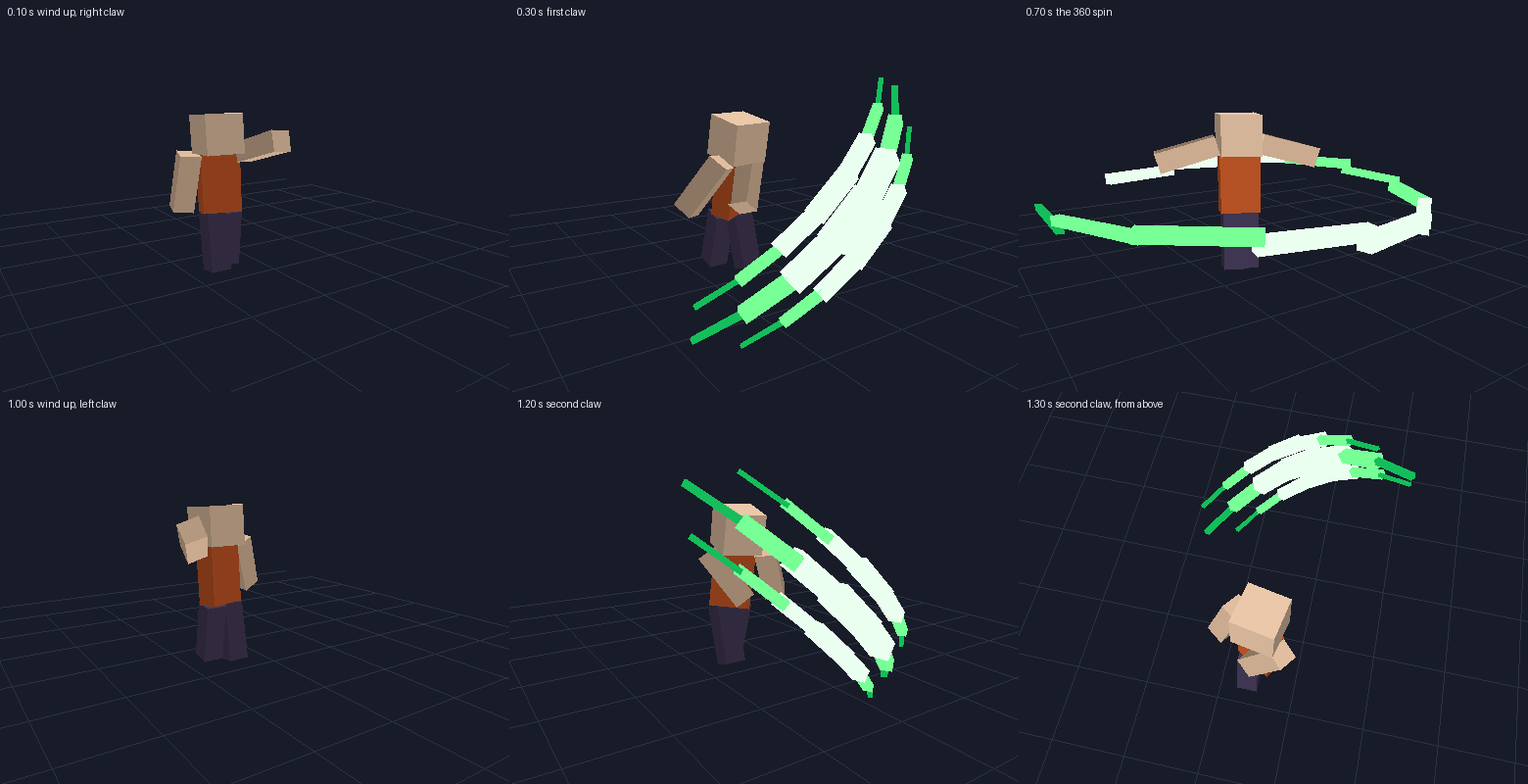
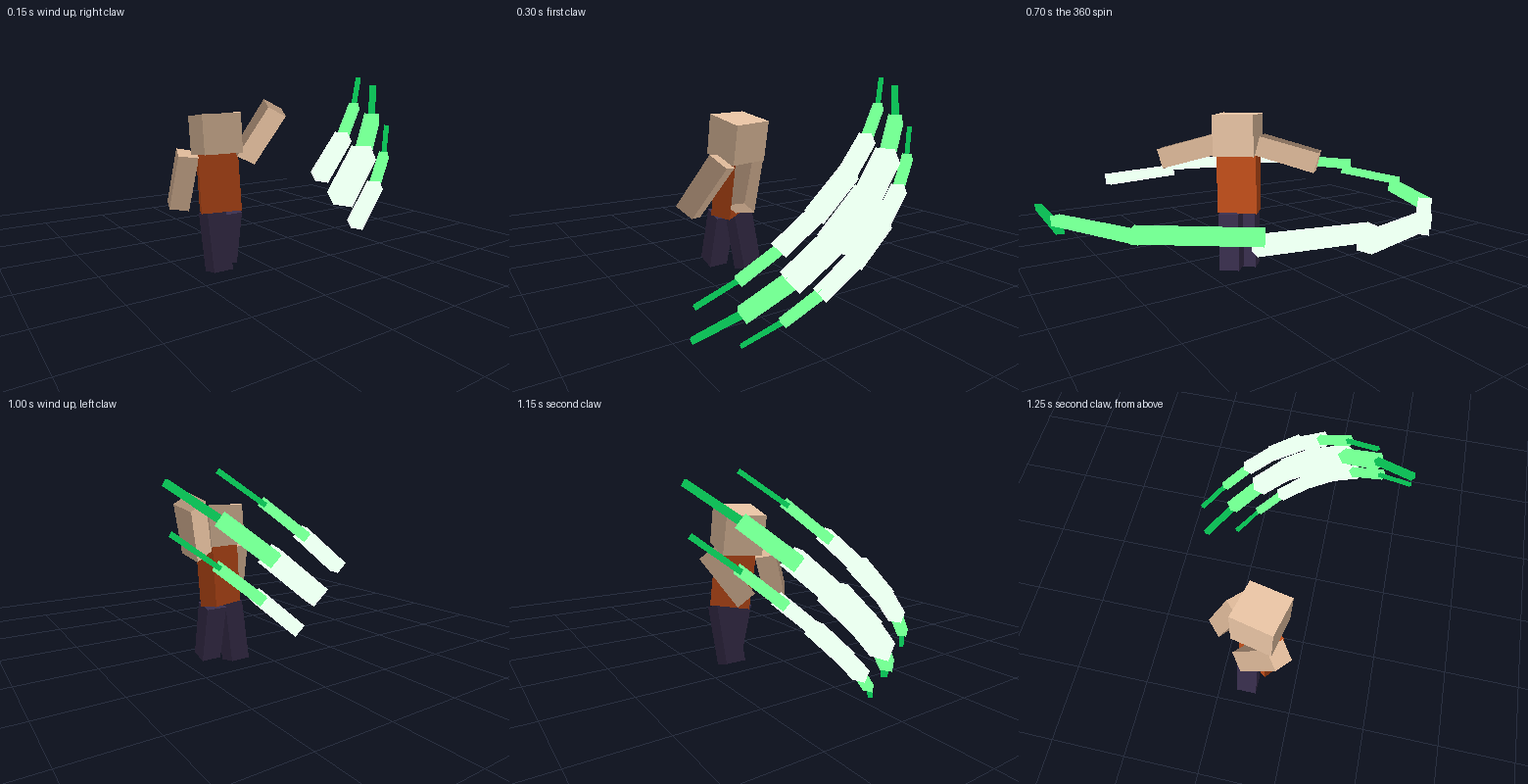
Dragon Claw: animation sent as 12 small calls (rotations only) after the game refused the large ones; the caster is told if a call fails

diff --git a/dragon_claw/animation/animation_only.code_block.js b/dragon_claw/animation/animation_only.code_block.js
@@ -1,10 +1,46 @@
 let playerId = myId
-api.animateEntity(playerId, {"animationDurationMs":450,"loop":false,"nodeAnimations":{"TorsoNode":{"timeline":[{"timeFraction":0,"position":[0,0,0],"rotation":[0,0,0]},{"timeFraction":0.333333,"position":[0,0,0],"rotation":[-0.1047,0.384,0]},{"timeFraction":0.6,"position":[0,0,0],"rotation":[0.2443,-0.4887,0]},{"timeFraction":0.888889,"position":[0,0,0],"rotation":[0.1745,-0.6632,0]},{"timeFraction":1,"position":[0,0,0],"rotation":[0,0,0]}]},"HeadMesh":{"timeline":[{"timeFraction":0,"position":[0,0,0],"rotation":[0,0,0]},{"timeFraction":0.333333,"position":[0,0,0],"rotation":[0,-0.2618,0]},{"timeFraction":0.6,"position":[0,0,0],"rotation":[0,0.3491,0]},{"timeFraction":0.888889,"position":[0,0,0],"rotation":[0,0.4363,0]},{"timeFraction":1,"position":[0,0,0],"rotation":[0,0,0]}]},"ArmRightMesh":{"timeline":[{"timeFraction":0,"position":[0,0,0],"rotation":[0,0,0]},{"timeFraction":0.333333,"position":[0,0,0],"rotation":[-2.7053,0,-0.5236]},{"timeFraction":0.6,"position":[0,0,0],"rotation":[-0.6981,0,0.8727]},{"timeFraction":0.888889,"position":[0,0,0],"rotation":[0.2618,0,0.6109]},{"timeFraction":1,"position":[0,0,0],"rotation":[0,0,-1.309]}]},"ArmLeftMesh":{"timeline":[{"timeFraction":0,"position":[0,0,0],"rotation":[0,0,0]},{"timeFraction":0.333333,"position":[0,0,0],"rotation":[0.3491,0,0.2094]},{"timeFraction":0.6,"position":[0,0,0],"rotation":[0.5236,0,0.2618]},{"timeFraction":0.888889,"position":[0,0,0],"rotation":[0.1745,0,0.3491]},{"timeFraction":1,"position":[0,0,0],"rotation":[0,0,1.309]}]},"LegLeftMesh":{"timeline":[{"timeFraction":0,"position":[0,0,0],"rotation":[0,0,0]},{"timeFraction":0.333333,"position":[0,0,0],"rotation":[-0.2094,0,0]},{"timeFraction":0.6,"position":[0,0,0],"rotation":[0.3142,0,0]},{"timeFraction":0.888889,"position":[0,0,0],"rotation":[0.3142,0,0]},{"timeFraction":1,"position":[0,0,0],"rotation":[0,0,0]}]},"LegRightMesh":{"timeline":[{"timeFraction":0,"position":[0,0,0],"rotation":[0,0,0]},{"timeFraction":0.333333,"position":[0,0,0],"rotation":[0.2094,0,0]},{"timeFraction":0.6,"position":[0,0,0],"rotation":[-0.3142,0,0]},{"timeFraction":0.888889,"position":[0,0,0],"rotation":[-0.3142,0,0]},{"timeFraction":1,"position":[0,0,0],"rotation":[0,0,0]}]}}}, 0, 1)
+api.animateEntity(playerId, {"animationDurationMs":150,"loop":false,"nodeAnimations":{"TorsoNode":{"timeline":[{"timeFraction":0,"rotation":[0,0,0]},{"timeFraction":1,"rotation":[-0.1,0.38,0]}]},"HeadMesh":{"timeline":[{"timeFraction":0,"rotation":[0,0,0]},{"timeFraction":1,"rotation":[0,-0.26,0]}]},"ArmRightMesh":{"timeline":[{"timeFraction":0,"rotation":[0,0,0]},{"timeFraction":1,"rotation":[-2.71,0,-0.52]}]},"ArmLeftMesh":{"timeline":[{"timeFraction":0,"rotation":[0,0,0]},{"timeFraction":1,"rotation":[0.35,0,0.21]}]},"LegLeftMesh":{"timeline":[{"timeFraction":0,"rotation":[0,0,0]},{"timeFraction":1,"rotation":[-0.21,0,0]}]},"LegRightMesh":{"timeline":[{"timeFraction":0,"rotation":[0,0,0]},{"timeFraction":1,"rotation":[0.21,0,0]}]}}}, 0, 1)
 
 addAnimation((speed) => {
-    api.animateEntity(playerId, {"animationDurationMs":450,"loop":false,"nodeAnimations":{"TorsoNode":{"timeline":[{"timeFraction":0,"position":[0,0,0],"rotation":[0,0,0]},{"timeFraction":0.25,"position":[0,0,0],"rotation":[0,1.5708,0]},{"timeFraction":0.5,"position":[0,0,0],"rotation":[0,3.1416,0]},{"timeFraction":0.75,"position":[0,0,0],"rotation":[0,4.7124,0]},{"timeFraction":1,"position":[0,0,0],"rotation":[0,6.2832,0]}]},"ArmRightMesh":{"timeline":[{"timeFraction":0,"position":[0,0,0],"rotation":[0,0,-1.309]},{"timeFraction":0.25,"position":[0,0,0],"rotation":[0,0,-1.309]},{"timeFraction":0.5,"position":[0,0,0],"rotation":[0,0,-1.309]},{"timeFraction":0.75,"position":[0,0,0],"rotation":[0,0,-1.309]},{"timeFraction":1,"position":[0,0,0],"rotation":[0,0,-1.309]}]},"ArmLeftMesh":{"timeline":[{"timeFraction":0,"position":[0,0,0],"rotation":[0,0,1.309]},{"timeFraction":0.25,"position":[0,0,0],"rotation":[0,0,1.309]},{"timeFraction":0.5,"position":[0,0,0],"rotation":[0,0,1.309]},{"timeFraction":0.75,"position":[0,0,0],"rotation":[0,0,1.309]},{"timeFraction":1,"position":[0,0,0],"rotation":[0,0,1.309]}]},"LegLeftMesh":{"timeline":[{"timeFraction":0,"position":[0,0,0],"rotation":[0,0,0]},{"timeFraction":0.25,"position":[-0.129,0,-0.129],"rotation":[0,1.5708,0]},{"timeFraction":0.5,"position":[-0.258,0,0],"rotation":[0,3.1416,0]},{"timeFraction":0.75,"position":[-0.129,0,0.129],"rotation":[0,4.7124,0]},{"timeFraction":1,"position":[0,0,0],"rotation":[0,6.2832,0]}]},"LegRightMesh":{"timeline":[{"timeFraction":0,"position":[0,0,0],"rotation":[0,0,0]},{"timeFraction":0.25,"position":[0.129,0,0.129],"rotation":[0,1.5708,0]},{"timeFraction":0.5,"position":[0.258,0,0],"rotation":[0,3.1416,0]},{"timeFraction":0.75,"position":[0.129,0,-0.129],"rotation":[0,4.7124,0]},{"timeFraction":1,"position":[0,0,0],"rotation":[0,6.2832,0]}]}}}, 0, speed)
+    api.animateEntity(playerId, {"animationDurationMs":100,"loop":false,"nodeAnimations":{"TorsoNode":{"timeline":[{"timeFraction":0,"rotation":[-0.1,0.38,0]},{"timeFraction":1,"rotation":[0.24,-0.49,0]}]},"HeadMesh":{"timeline":[{"timeFraction":0,"rotation":[0,-0.26,0]},{"timeFraction":1,"rotation":[0,0.35,0]}]},"ArmRightMesh":{"timeline":[{"timeFraction":0,"rotation":[-2.71,0,-0.52]},{"timeFraction":1,"rotation":[-0.7,0,0.87]}]},"ArmLeftMesh":{"timeline":[{"timeFraction":0,"rotation":[0.35,0,0.21]},{"timeFraction":1,"rotation":[0.52,0,0.26]}]},"LegLeftMesh":{"timeline":[{"timeFraction":0,"rotation":[-0.21,0,0]},{"timeFraction":1,"rotation":[0.31,0,0]}]},"LegRightMesh":{"timeline":[{"timeFraction":0,"rotation":[0.21,0,0]},{"timeFraction":1,"rotation":[-0.31,0,0]}]}}}, 0, speed)
+}, 150, 1)
+
+addAnimation((speed) => {
+    api.animateEntity(playerId, {"animationDurationMs":150,"loop":false,"nodeAnimations":{"TorsoNode":{"timeline":[{"timeFraction":0,"rotation":[0.24,-0.49,0]},{"timeFraction":1,"rotation":[0.17,-0.66,0]}]},"HeadMesh":{"timeline":[{"timeFraction":0,"rotation":[0,0.35,0]},{"timeFraction":1,"rotation":[0,0.44,0]}]},"ArmRightMesh":{"timeline":[{"timeFraction":0,"rotation":[-0.7,0,0.87]},{"timeFraction":1,"rotation":[0.26,0,0.61]}]},"ArmLeftMesh":{"timeline":[{"timeFraction":0,"rotation":[0.52,0,0.26]},{"timeFraction":1,"rotation":[0.17,0,0.35]}]},"LegLeftMesh":{"timeline":[{"timeFraction":0,"rotation":[0.31,0,0]},{"timeFraction":1,"rotation":[0.31,0,0]}]},"LegRightMesh":{"timeline":[{"timeFraction":0,"rotation":[-0.31,0,0]},{"timeFraction":1,"rotation":[-0.31,0,0]}]}}}, 0, speed)
+}, 250, 1)
+
+addAnimation((speed) => {
+    api.animateEntity(playerId, {"animationDurationMs":50,"loop":false,"nodeAnimations":{"TorsoNode":{"timeline":[{"timeFraction":0,"rotation":[0.17,-0.66,0]},{"timeFraction":1,"rotation":[0,0,0]}]},"HeadMesh":{"timeline":[{"timeFraction":0,"rotation":[0,0.44,0]},{"timeFraction":1,"rotation":[0,0,0]}]},"ArmRightMesh":{"timeline":[{"timeFraction":0,"rotation":[0.26,0,0.61]},{"timeFraction":1,"rotation":[0,0,-1.31]}]},"ArmLeftMesh":{"timeline":[{"timeFraction":0,"rotation":[0.17,0,0.35]},{"timeFraction":1,"rotation":[0,0,1.31]}]},"LegLeftMesh":{"timeline":[{"timeFraction":0,"rotation":[0.31,0,0]},{"timeFraction":1,"rotation":[0,0,0]}]},"LegRightMesh":{"timeline":[{"timeFraction":0,"rotation":[-0.31,0,0]},{"timeFraction":1,"rotation":[0,0,0]}]}}}, 0, speed)
+}, 400, 1)
+
+addAnimation((speed) => {
+    api.animateEntity(playerId, {"animationDurationMs":100,"loop":false,"nodeAnimations":{"TorsoNode":{"timeline":[{"timeFraction":0,"rotation":[0,0,0]},{"timeFraction":1,"rotation":[0,1.57,0]}]},"ArmRightMesh":{"timeline":[{"timeFraction":0,"rotation":[0,0,-1.31]},{"timeFraction":1,"rotation":[0,0,-1.31]}]},"ArmLeftMesh":{"timeline":[{"timeFraction":0,"rotation":[0,0,1.31]},{"timeFraction":1,"rotation":[0,0,1.31]}]},"LegLeftMesh":{"timeline":[{"timeFraction":0,"rotation":[0,0,0]},{"timeFraction":1,"rotation":[0,1.57,0]}]},"LegRightMesh":{"timeline":[{"timeFraction":0,"rotation":[0,0,0]},{"timeFraction":1,"rotation":[0,1.57,0]}]}}}, 0, speed)
 }, 450, 1)
 
 addAnimation((speed) => {
-    api.animateEntity(playerId, {"animationDurationMs":500,"loop":false,"nodeAnimations":{"TorsoNode":{"timeline":[{"timeFraction":0,"position":[0,0,0],"rotation":[0,0,0]},{"timeFraction":0.26,"position":[0,0,0],"rotation":[-0.1047,-0.384,0]},{"timeFraction":0.5,"position":[0,0,0],"rotation":[0.2443,0.4887,0]},{"timeFraction":0.76,"position":[0,0,0],"rotation":[0.1745,0.6632,0]},{"timeFraction":1,"position":[0,0,0],"rotation":[0,0,0]}]},"HeadMesh":{"timeline":[{"timeFraction":0,"position":[0,0,0],"rotation":[0,0,0]},{"timeFraction":0.26,"position":[0,0,0],"rotation":[0,0.2618,0]},{"timeFraction":0.5,"position":[0,0,0],"rotation":[0,-0.3491,0]},{"timeFraction":0.76,"position":[0,0,0],"rotation":[0,-0.4363,0]},{"timeFraction":1,"position":[0,0,0],"rotation":[0,0,0]}]},"ArmRightMesh":{"timeline":[{"timeFraction":0,"position":[0,0,0],"rotation":[0,0,-1.309]},{"timeFraction":0.26,"position":[0,0,0],"rotation":[0.3491,0,-0.2094]},{"timeFraction":0.5,"position":[0,0,0],"rotation":[0.5236,0,-0.2618]},{"timeFraction":0.76,"position":[0,0,0],"rotation":[0.1745,0,-0.3491]},{"timeFraction":1,"position":[0,0,0],"rotation":[0,0,0]}]},"ArmLeftMesh":{"timeline":[{"timeFraction":0,"position":[0,0,0],"rotation":[0,0,1.309]},{"timeFraction":0.26,"position":[0,0,0],"rotation":[-2.7053,0,0.5236]},{"timeFraction":0.5,"position":[0,0,0],"rotation":[-0.6981,0,-0.8727]},{"timeFraction":0.76,"position":[0,0,0],"rotation":[0.2618,0,-0.6109]},{"timeFraction":1,"position":[0,0,0],"rotation":[0,0,0]}]},"LegLeftMesh":{"timeline":[{"timeFraction":0,"position":[0,0,0],"rotation":[0,0,0]},{"timeFraction":0.26,"position":[0,0,0],"rotation":[0.2094,0,0]},{"timeFraction":0.5,"position":[0,0,0],"rotation":[-0.3142,0,0]},{"timeFraction":0.76,"position":[0,0,0],"rotation":[-0.3142,0,0]},{"timeFraction":1,"position":[0,0,0],"rotation":[0,0,0]}]},"LegRightMesh":{"timeline":[{"timeFraction":0,"position":[0,0,0],"rotation":[0,0,0]},{"timeFraction":0.26,"position":[0,0,0],"rotation":[-0.2094,0,0]},{"timeFraction":0.5,"position":[0,0,0],"rotation":[0.3142,0,0]},{"timeFraction":0.76,"position":[0,0,0],"rotation":[0.3142,0,0]},{"timeFraction":1,"position":[0,0,0],"rotation":[0,0,0]}]}}}, 0, speed)
-}, 900, 1)
+    api.animateEntity(playerId, {"animationDurationMs":100,"loop":false,"nodeAnimations":{"TorsoNode":{"timeline":[{"timeFraction":0,"rotation":[0,1.57,0]},{"timeFraction":1,"rotation":[0,3.14,0]}]},"ArmRightMesh":{"timeline":[{"timeFraction":0,"rotation":[0,0,-1.31]},{"timeFraction":1,"rotation":[0,0,-1.31]}]},"ArmLeftMesh":{"timeline":[{"timeFraction":0,"rotation":[0,0,1.31]},{"timeFraction":1,"rotation":[0,0,1.31]}]},"LegLeftMesh":{"timeline":[{"timeFraction":0,"rotation":[0,1.57,0]},{"timeFraction":1,"rotation":[0,3.14,0]}]},"LegRightMesh":{"timeline":[{"timeFraction":0,"rotation":[0,1.57,0]},{"timeFraction":1,"rotation":[0,3.14,0]}]}}}, 0, speed)
+}, 550, 1)
+
+addAnimation((speed) => {
+    api.animateEntity(playerId, {"animationDurationMs":100,"loop":false,"nodeAnimations":{"TorsoNode":{"timeline":[{"timeFraction":0,"rotation":[0,-3.14,0]},{"timeFraction":1,"rotation":[0,-1.57,0]}]},"ArmRightMesh":{"timeline":[{"timeFraction":0,"rotation":[0,0,-1.31]},{"timeFraction":1,"rotation":[0,0,-1.31]}]},"ArmLeftMesh":{"timeline":[{"timeFraction":0,"rotation":[0,0,1.31]},{"timeFraction":1,"rotation":[0,0,1.31]}]},"LegLeftMesh":{"timeline":[{"timeFraction":0,"rotation":[0,-3.14,0]},{"timeFraction":1,"rotation":[0,-1.57,0]}]},"LegRightMesh":{"timeline":[{"timeFraction":0,"rotation":[0,-3.14,0]},{"timeFraction":1,"rotation":[0,-1.57,0]}]}}}, 0, speed)
+}, 650, 1)
+
+addAnimation((speed) => {
+    api.animateEntity(playerId, {"animationDurationMs":100,"loop":false,"nodeAnimations":{"TorsoNode":{"timeline":[{"timeFraction":0,"rotation":[0,-1.57,0]},{"timeFraction":1,"rotation":[0,0,0]}]},"ArmRightMesh":{"timeline":[{"timeFraction":0,"rotation":[0,0,-1.31]},{"timeFraction":1,"rotation":[0,0,-1.31]}]},"ArmLeftMesh":{"timeline":[{"timeFraction":0,"rotation":[0,0,1.31]},{"timeFraction":1,"rotation":[0,0,1.31]}]},"LegLeftMesh":{"timeline":[{"timeFraction":0,"rotation":[0,-1.57,0]},{"timeFraction":1,"rotation":[0,0,0]}]},"LegRightMesh":{"timeline":[{"timeFraction":0,"rotation":[0,-1.57,0]},{"timeFraction":1,"rotation":[0,0,0]}]}}}, 0, speed)
+}, 750, 1)
+
+addAnimation((speed) => {
+    api.animateEntity(playerId, {"animationDurationMs":150,"loop":false,"nodeAnimations":{"TorsoNode":{"timeline":[{"timeFraction":0,"rotation":[0,0,0]},{"timeFraction":1,"rotation":[-0.1,-0.38,0]}]},"HeadMesh":{"timeline":[{"timeFraction":0,"rotation":[0,0,0]},{"timeFraction":1,"rotation":[0,0.26,0]}]},"ArmRightMesh":{"timeline":[{"timeFraction":0,"rotation":[0,0,-1.31]},{"timeFraction":1,"rotation":[0.35,0,-0.21]}]},"ArmLeftMesh":{"timeline":[{"timeFraction":0,"rotation":[0,0,1.31]},{"timeFraction":1,"rotation":[-2.71,0,0.52]}]},"LegLeftMesh":{"timeline":[{"timeFraction":0,"rotation":[0,0,0]},{"timeFraction":1,"rotation":[0.21,0,0]}]},"LegRightMesh":{"timeline":[{"timeFraction":0,"rotation":[0,0,0]},{"timeFraction":1,"rotation":[-0.21,0,0]}]}}}, 0, speed)
+}, 850, 1)
+
+addAnimation((speed) => {
+    api.animateEntity(playerId, {"animationDurationMs":100,"loop":false,"nodeAnimations":{"TorsoNode":{"timeline":[{"timeFraction":0,"rotation":[-0.1,-0.38,0]},{"timeFraction":1,"rotation":[0.24,0.49,0]}]},"HeadMesh":{"timeline":[{"timeFraction":0,"rotation":[0,0.26,0]},{"timeFraction":1,"rotation":[0,-0.35,0]}]},"ArmRightMesh":{"timeline":[{"timeFraction":0,"rotation":[0.35,0,-0.21]},{"timeFraction":1,"rotation":[0.52,0,-0.26]}]},"ArmLeftMesh":{"timeline":[{"timeFraction":0,"rotation":[-2.71,0,0.52]},{"timeFraction":1,"rotation":[-0.7,0,-0.87]}]},"LegLeftMesh":{"timeline":[{"timeFraction":0,"rotation":[0.21,0,0]},{"timeFraction":1,"rotation":[-0.31,0,0]}]},"LegRightMesh":{"timeline":[{"timeFraction":0,"rotation":[-0.21,0,0]},{"timeFraction":1,"rotation":[0.31,0,0]}]}}}, 0, speed)
+}, 1000, 1)
+
+addAnimation((speed) => {
+    api.animateEntity(playerId, {"animationDurationMs":150,"loop":false,"nodeAnimations":{"TorsoNode":{"timeline":[{"timeFraction":0,"rotation":[0.24,0.49,0]},{"timeFraction":1,"rotation":[0.17,0.66,0]}]},"HeadMesh":{"timeline":[{"timeFraction":0,"rotation":[0,-0.35,0]},{"timeFraction":1,"rotation":[0,-0.44,0]}]},"ArmRightMesh":{"timeline":[{"timeFraction":0,"rotation":[0.52,0,-0.26]},{"timeFraction":1,"rotation":[0.17,0,-0.35]}]},"ArmLeftMesh":{"timeline":[{"timeFraction":0,"rotation":[-0.7,0,-0.87]},{"timeFraction":1,"rotation":[0.26,0,-0.61]}]},"LegLeftMesh":{"timeline":[{"timeFraction":0,"rotation":[-0.31,0,0]},{"timeFraction":1,"rotation":[-0.31,0,0]}]},"LegRightMesh":{"timeline":[{"timeFraction":0,"rotation":[0.31,0,0]},{"timeFraction":1,"rotation":[0.31,0,0]}]}}}, 0, speed)
+}, 1100, 1)
+
+addAnimation((speed) => {
+    api.animateEntity(playerId, {"animationDurationMs":100,"loop":false,"nodeAnimations":{"TorsoNode":{"timeline":[{"timeFraction":0,"rotation":[0.17,0.66,0]},{"timeFraction":1,"rotation":[0,0,0]}]},"HeadMesh":{"timeline":[{"timeFraction":0,"rotation":[0,-0.44,0]},{"timeFraction":1,"rotation":[0,0,0]}]},"ArmRightMesh":{"timeline":[{"timeFraction":0,"rotation":[0.17,0,-0.35]},{"timeFraction":1,"rotation":[0,0,0]}]},"ArmLeftMesh":{"timeline":[{"timeFraction":0,"rotation":[0.26,0,-0.61]},{"timeFraction":1,"rotation":[0,0,0]}]},"LegLeftMesh":{"timeline":[{"timeFraction":0,"rotation":[-0.31,0,0]},{"timeFraction":1,"rotation":[0,0,0]}]},"LegRightMesh":{"timeline":[{"timeFraction":0,"rotation":[0.31,0,0]},{"timeFraction":1,"rotation":[0,0,0]}]}}}, 0, speed)
+}, 1250, 1)

diff --git a/dragon_claw/world_code.js b/dragon_claw/world_code.js
@@ -40,35 +40,32 @@ var CLAW_STEP = {
   drop1: 9,
   spin: 9,
   hitSpin: 13,
-  dropSpin: 19,
-  swing2: 18,
-  slash2: 21,
-  hit2: 23,
-  drop2: 27,
-  rest: 28,
-  end: 31,
+  dropSpin: 18,
+  slash2: 20,
+  hit2: 22,
+  drop2: 26,
+  rest: 27,
+  end: 30,
 }
-
-var CLAW_CUTS = [0, 0.45, 0.9, 1.4]
 
 var CLAW_POSE = [
   [0, {}],
-  [0.15, { TorsoNode: [-6, 22, 0], HeadMesh: [0, -15, 0], ArmRightMesh: [-155, 0, -30], ArmLeftMesh: [20, 0, 12], LegRightMesh: [12, 0, 0], LegLeftMesh: [-12, 0, 0] }],
-  [0.27, { TorsoNode: [14, -28, 0], HeadMesh: [0, 20, 0], ArmRightMesh: [-40, 0, 50], ArmLeftMesh: [30, 0, 15], LegRightMesh: [-18, 0, 0], LegLeftMesh: [18, 0, 0] }],
-  [0.4, { TorsoNode: [10, -38, 0], HeadMesh: [0, 25, 0], ArmRightMesh: [15, 0, 35], ArmLeftMesh: [10, 0, 20], LegRightMesh: [-18, 0, 0], LegLeftMesh: [18, 0, 0] }],
-  [0.45, { ArmRightMesh: [0, 0, -75], ArmLeftMesh: [0, 0, 75] }, 0],
-  [0.5625, { ArmRightMesh: [0, 0, -75], ArmLeftMesh: [0, 0, 75] }, 90],
-  [0.675, { ArmRightMesh: [0, 0, -75], ArmLeftMesh: [0, 0, 75] }, 180],
-  [0.7875, { ArmRightMesh: [0, 0, -75], ArmLeftMesh: [0, 0, 75] }, 270],
-  [0.9, { ArmRightMesh: [0, 0, -75], ArmLeftMesh: [0, 0, 75] }, 360],
-  [1.03, { TorsoNode: [-6, -22, 0], HeadMesh: [0, 15, 0], ArmLeftMesh: [-155, 0, 30], ArmRightMesh: [20, 0, -12], LegLeftMesh: [12, 0, 0], LegRightMesh: [-12, 0, 0] }, 360],
-  [1.15, { TorsoNode: [14, 28, 0], HeadMesh: [0, -20, 0], ArmLeftMesh: [-40, 0, -50], ArmRightMesh: [30, 0, -15], LegLeftMesh: [-18, 0, 0], LegRightMesh: [18, 0, 0] }, 360],
-  [1.28, { TorsoNode: [10, 38, 0], HeadMesh: [0, -25, 0], ArmLeftMesh: [15, 0, -35], ArmRightMesh: [10, 0, -20], LegLeftMesh: [-18, 0, 0], LegRightMesh: [18, 0, 0] }, 360],
-  [1.4, {}, 360],
+  [3, { TorsoNode: [-6, 22, 0], HeadMesh: [0, -15, 0], ArmRightMesh: [-155, 0, -30], ArmLeftMesh: [20, 0, 12], LegRightMesh: [12, 0, 0], LegLeftMesh: [-12, 0, 0] }],
+  [5, { TorsoNode: [14, -28, 0], HeadMesh: [0, 20, 0], ArmRightMesh: [-40, 0, 50], ArmLeftMesh: [30, 0, 15], LegRightMesh: [-18, 0, 0], LegLeftMesh: [18, 0, 0] }],
+  [8, { TorsoNode: [10, -38, 0], HeadMesh: [0, 25, 0], ArmRightMesh: [15, 0, 35], ArmLeftMesh: [10, 0, 20], LegRightMesh: [-18, 0, 0], LegLeftMesh: [18, 0, 0] }],
+  [9, { ArmRightMesh: [0, 0, -75], ArmLeftMesh: [0, 0, 75] }, 0],
+  [11, { ArmRightMesh: [0, 0, -75], ArmLeftMesh: [0, 0, 75] }, 90],
+  [13, { ArmRightMesh: [0, 0, -75], ArmLeftMesh: [0, 0, 75] }, 180],
+  [15, { ArmRightMesh: [0, 0, -75], ArmLeftMesh: [0, 0, 75] }, 270],
+  [17, { ArmRightMesh: [0, 0, -75], ArmLeftMesh: [0, 0, 75] }, 360],
+  [20, { TorsoNode: [-6, -22, 0], HeadMesh: [0, 15, 0], ArmLeftMesh: [-155, 0, 30], ArmRightMesh: [20, 0, -12], LegLeftMesh: [12, 0, 0], LegRightMesh: [-12, 0, 0] }, 360],
+  [22, { TorsoNode: [14, 28, 0], HeadMesh: [0, -20, 0], ArmLeftMesh: [-40, 0, -50], ArmRightMesh: [30, 0, -15], LegLeftMesh: [-18, 0, 0], LegRightMesh: [18, 0, 0] }, 360],
+  [25, { TorsoNode: [10, 38, 0], HeadMesh: [0, -25, 0], ArmLeftMesh: [15, 0, -35], ArmRightMesh: [10, 0, -20], LegLeftMesh: [-18, 0, 0], LegRightMesh: [18, 0, 0] }, 360],
+  [27, {}, 360],
 ]
 
 var CLAW_NODES = ["TorsoNode", "HeadMesh", "ArmRightMesh", "ArmLeftMesh", "LegLeftMesh", "LegRightMesh"]
-var CLAW_HIP = { LegRightMesh: -0.129, LegLeftMesh: 0.129 }
+var CLAW_TURNS = ["TorsoNode", "LegLeftMesh", "LegRightMesh"]
 
 var CLAW_MESH = {
   talon: [
@@ -115,50 +112,46 @@ var clawNorm = (a) => {
   var n = clawLen(a) || 1
   return [a[0] / n, a[1] / n, a[2] / n]
 }
-var clawRad = (deg) => Math.round(((deg * Math.PI) / 180) * 10000) / 10000
+var clawRad = (deg) => Math.round(((deg * Math.PI) / 180) * 100) / 100
 
 var clawCasts = []
 var clawMeshes = 0
 
 function clawNodePose(row, node) {
   var r = (row[1][node] || [0, 0, 0]).slice()
-  var turn = row[2] || 0
-  var p = [0, 0, 0]
-  if (node === "TorsoNode" || CLAW_HIP[node]) r[1] += turn
-  if (CLAW_HIP[node]) {
-    var a = (turn * Math.PI) / 180
-    p = [CLAW_HIP[node] * (Math.cos(a) - 1), 0, CLAW_HIP[node] * Math.sin(a)]
-  }
-  return { r: r, p: p }
+  if (CLAW_TURNS.indexOf(node) >= 0) r[1] += row[2] || 0
+  return r
 }
 
 function clawSchema(n) {
-  var from = CLAW_CUTS[n]
-  var to = CLAW_CUTS[n + 1]
-  var rows = CLAW_POSE.filter((row) => row[0] >= from - 1e-6 && row[0] <= to + 1e-6)
+  var a = CLAW_POSE[n]
+  var b = CLAW_POSE[n + 1]
   var nodes = {}
   CLAW_NODES.forEach((node) => {
-    var first = clawNodePose(rows[0], node)
-    var whole = 360 * Math.round(first.r[1] / 360)
-    var moved = false
-    var line = rows.map((row) => {
-      var q = clawNodePose(row, node)
-      var rot = [clawRad(q.r[0] * CLAW_CFG.flip), clawRad(q.r[1] - whole), clawRad(q.r[2])]
-      var pos = [Math.round(q.p[0] * 10000) / 10000, 0, -Math.round(q.p[2] * 10000) / 10000]
-      if (rot.some((v) => v) || pos.some((v) => v)) moved = true
-      return { timeFraction: Math.round(((row[0] - from) / (to - from)) * 1e6) / 1e6, position: pos, rotation: rot }
-    })
-    if (moved) nodes[node] = { timeline: line }
+    var p = clawNodePose(a, node)
+    var q = clawNodePose(b, node)
+    var whole = 360 * Math.round(p[1] / 360)
+    var rot = (r) => [clawRad(r[0] * CLAW_CFG.flip), clawRad(r[1] - whole), clawRad(r[2])]
+    var from = rot(p)
+    var to = rot(q)
+    if (!from.concat(to).some((v) => v)) return
+    nodes[node] = { timeline: [{ timeFraction: 0, rotation: from }, { timeFraction: 1, rotation: to }] }
   })
-  return { animationDurationMs: Math.round((to - from) * 1000), loop: false, nodeAnimations: nodes }
+  return { animationDurationMs: (b[0] - a[0]) * 50, loop: false, nodeAnimations: nodes }
 }
 
-function clawAnimate(c, n) {
+function clawAnimate(c) {
   if (!CLAW_CFG.animate) return
   try {
-    api.animateEntity(c.id, n === null ? null : clawSchema(n), 0, 1)
+    if (c.t === CLAW_STEP.rest) return api.animateEntity(c.id, null, 0, 1)
+    for (var n = 0; n < CLAW_POSE.length - 1; n++) {
+      if (CLAW_POSE[n][0] === c.t) api.animateEntity(c.id, clawSchema(n), 0, 1)
+    }
   } catch (e) {
     CLAW_CFG.animate = false
+    try {
+      api.sendMessage(c.id, "Dragon Claw animation stopped: " + e, { color: "orange" })
+    } catch (e2) {}
   }
 }
 
@@ -352,9 +345,9 @@ function clawStep(c) {
   var t = c.t
   var p = api.getPosition(c.id)
   c.pos = [p[0], p[1], p[2]]
+  clawAnimate(c)
   if (t === 0) {
     clawHands(c, true)
-    clawAnimate(c, 0)
     clawSound("ready", c.pos)
     clawFx(clawAdd(c.pos, [0, 1, 0], 1.2), null, "core", "edge", 0.3, 0.6, "glint", 10, 0.6)
   }
@@ -368,17 +361,13 @@ function clawStep(c) {
     clawBurst(c, 1, (T.drop1 - T.slash1 - 2) * 0.2)
     clawDrop(c, "a")
   }
-  if (t === T.spin) {
-    clawAnimate(c, 1)
-    clawSound("spin", c.pos)
-  }
+  if (t === T.spin) clawSound("spin", c.pos)
   if (t >= T.spin && t < T.dropSpin) clawRing(c, t - T.spin)
   if (t === T.hitSpin) {
     clawHit(c, true)
     clawWave(c)
   }
   if (t === T.dropSpin) clawDrop(c, "ring_")
-  if (t === T.swing2) clawAnimate(c, 2)
   if (t === T.slash2) {
     clawSound("slash2", c.pos)
     clawLunge(c)
@@ -389,7 +378,6 @@ function clawStep(c) {
     clawBurst(c, -1, (T.drop2 - T.slash2 - 2) * 0.2)
     clawDrop(c, "b")
   }
-  if (t === T.rest) clawAnimate(c, null)
   return t >= T.end
 }
 

diff --git a/dragon_claw/tools/render.py b/dragon_claw/tools/render.py
@@ -96,7 +96,7 @@ def draw(tick, eye, title):
     d.text((8, 6), title, fill=(230, 235, 245))
     return img
 
-T = [(2, 'wind up, right claw'), (6, 'first claw'), (14, 'the 360 spin'), (20, 'wind up, left claw'), (24, 'second claw'), (26, 'second claw, from above')]
+T = [(3, 'wind up, right claw'), (6, 'first claw'), (14, 'the 360 spin'), (20, 'wind up, left claw'), (23, 'second claw'), (25, 'second claw, from above')]
 sheet = Image.new('RGB', (W * 3, H * 2))
 for i, (tick, title) in enumerate(T):
     eye = (PLAYER[0] + 3.2, PLAYER[1] + 2.4, PLAYER[2] + 5.6) if i < 5 else (PLAYER[0] + 0.5, PLAYER[1] + 7, PLAYER[2] - 1.5)

diff --git a/dragon_claw/README.md b/dragon_claw/README.md
@@ -16,14 +16,14 @@ right-click handlers working. Then type `!claw`.
 
 From other code: `dragonClaw(playerId)`.
 
-## What happens (1.6 s)
+## What happens (1.55 s)
 
 | Seconds | Player animation | Meshes and particles | Hit |
 |---|---|---|---|
 | 0.00–0.45 | Right arm goes up and back, then rakes down across the body | Claws appear on both hands (node meshes). Three slash marks of 7 meshes each are drawn in front, top to bottom, with sparks at the tips | 0.25 s: everything in front, within `range` |
-| 0.45–0.90 | Arms out, full turn in four quarter steps; the legs go round with the body | A ring of 14 meshes is drawn round the player as they turn; a ring of 18 particles flies outward | 0.65 s: everything all round, within `spinRange` |
-| 0.90–1.40 | Left arm goes up and back, then rakes down the other way | Three more slash marks, crossing the first | 1.15 s: everything in front |
-| 1.40–1.55 | Pose is reset | Claws are taken off | |
+| 0.45–0.85 | Arms out, full turn in four quarter steps; the legs go round with the body | A ring of 14 meshes is drawn round the player as they turn; a ring of 18 particles flies outward | 0.65 s: everything all round, within `spinRange` |
+| 0.85–1.35 | Left arm goes up and back, then rakes down the other way | Three more slash marks, crossing the first | 1.10 s: everything in front |
+| 1.35–1.50 | Pose is reset | Claws are taken off | |
 
 At most 21 mesh entities at once and 50 api calls in one tick.
 
@@ -35,19 +35,25 @@ further than 15 blocks is hit.
 ## The animation
 
 The poses are in `CLAW_POSE` in `world_code.js`: one row per keyframe, with the
-time in seconds and, per body part, its turn in degrees `[x, y, z]`, the same
-numbers the animation editor shows. A third value on a row is how far the whole
-body has turned (the spin).
+time in ticks (20 a second) and, per body part, its turn in degrees `[x, y, z]`,
+the same numbers the animation editor shows. A third value on a row is how far
+the whole body has turned (the spin).
 
-The game gets it as three `api.animateEntity` calls (first claw, spin, second
-claw) of 5 keyframes each, because the editor splits anything over 8 keyframes.
+The game gets it as 12 small `api.animateEntity` calls, one from each pose to
+the next, of 600 to 750 characters each. The first version sent three calls of
+up to 2,600 characters and the game refused them ("argument is too large").
+Only rotations are sent, rounded to two decimals.
+
+If the game refuses an animation call, the move goes on without the animation
+and the reason is shown to the caster in chat.
 
 To look at it or change it in the editor
 (https://tridentify.github.io/animation-editor/):
 
 - `animation/Dragon Claw.bloxdmation`: open it with the editor's file import.
 - `animation/animation_only.code_block.js`: the same animation as
-  `api.animateEntity` code, for the editor's "import code".
+  `api.animateEntity` code, for the editor's "import code". It is not meant
+  to be run in the game by itself.
 
 Both files are written by `node tools/check.mjs` from `CLAW_POSE`, so they
 always match the world code. Changes made in the editor do not come back by
